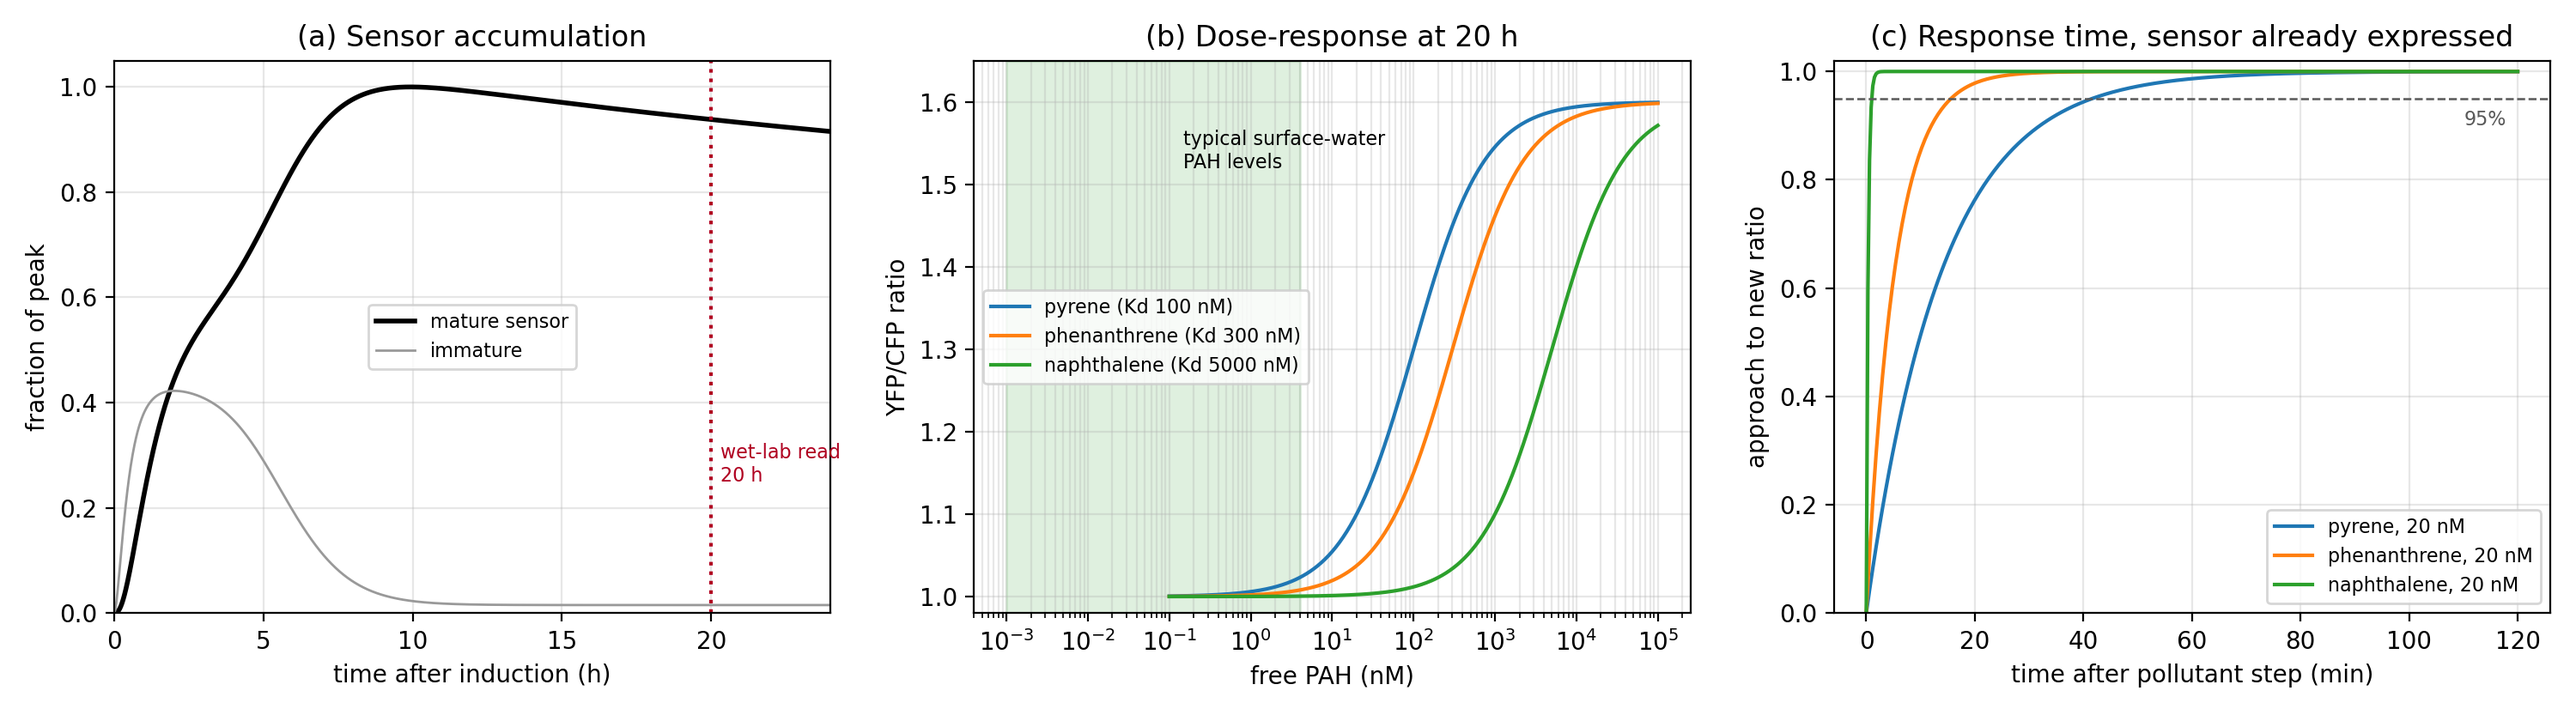
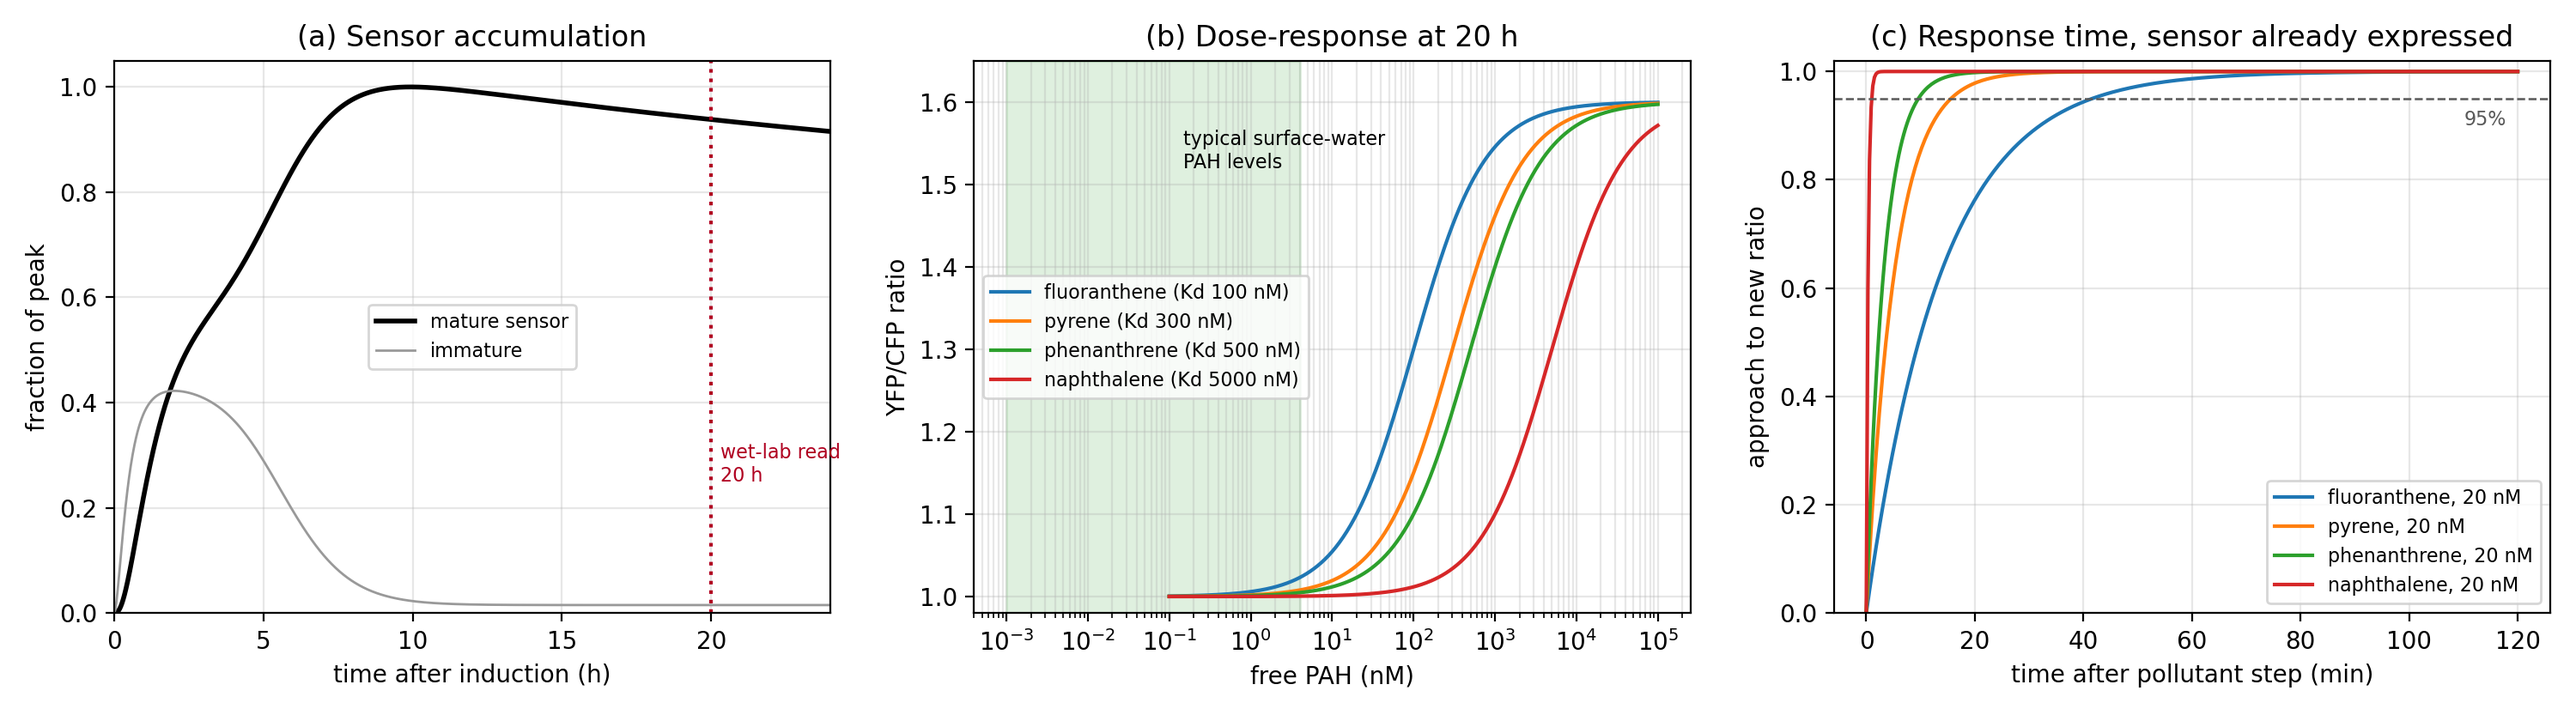
tool/autodock-vina: dock_ligand reads config.yaml, volume filter in blind-dock check, refresh analysis README, model docstring corrections

diff --git a/tools/autodock-vina/docking/dock_ligand.py b/tools/autodock-vina/docking/dock_ligand.py
@@ -1,15 +1,19 @@
-import argparse, os, shutil, subprocess, sys
+import argparse, os, shutil, subprocess, sys, yaml
 CANON = "../../../input/canonical/ligands/ligands.sdf"
 RECEPTOR = "../inputs/receptor.pdbqt"
-CENTER = (70.83, 71.96, 59.18)
-SIZE = (21.3, 19.6, 27.3)
+CONFIG = "../configurations/config.yaml"
 ap = argparse.ArgumentParser()
 ap.add_argument("ligand", help="exact name as it appears in ligands.sdf")
-ap.add_argument("--exhaustiveness", type=int, default=16)
-ap.add_argument("--num-modes", type=int, default=9)
-ap.add_argument("--seed", type=int, default=42)
+ap.add_argument("--config", default=CONFIG)
 a = ap.parse_args()
 os.chdir(os.path.dirname(os.path.abspath(__file__)))
+cfg = yaml.safe_load(open(a.config))
+box = cfg["box"]
+if box.get("mode") != "defined" or not box.get("center_xyz") or not box.get("size_xyz"):
+    sys.exit(f"{a.config}: box.mode must be 'defined' with center_xyz and size_xyz set")
+cx, cy, cz = box["center_xyz"]
+sx, sy, sz = box["size_xyz"]
+exh, nmodes, seed = cfg["exhaustiveness"], cfg["num_poses"], cfg["random_seed"]
 sdf = f"../inputs/{a.ligand}.sdf"
 for mol in open(CANON).read().split("$$$$\n"):
     if mol.strip() and mol.split("\n")[0].strip().lower() == a.ligand.lower():
@@ -22,15 +26,15 @@ out = f"../outputs/PahP__{a.ligand}__autodock-vina__v1.pdbqt"
 log = f"../outputs/PahP__{a.ligand}__autodock-vina__v1.log"
 os.makedirs("../outputs", exist_ok=True)
 cmd = ["vina", "--receptor", RECEPTOR, "--ligand", pdbqt,
-       "--center_x", str(CENTER[0]), "--center_y", str(CENTER[1]), "--center_z", str(CENTER[2]),
-       "--size_x", str(SIZE[0]), "--size_y", str(SIZE[1]), "--size_z", str(SIZE[2]),
-       "--exhaustiveness", str(a.exhaustiveness), "--num_modes", str(a.num_modes),
-       "--seed", str(a.seed), "--out", out]
+       "--center_x", str(cx), "--center_y", str(cy), "--center_z", str(cz),
+       "--size_x", str(sx), "--size_y", str(sy), "--size_z", str(sz),
+       "--exhaustiveness", str(exh), "--num_modes", str(nmodes),
+       "--seed", str(seed), "--out", out]
 with open(log, "w") as f:
     subprocess.run(cmd, stdout=f, stderr=subprocess.STDOUT, check=True)
 os.makedirs("../results/poses", exist_ok=True)
 shutil.copy(out, f"../results/poses/PahP__{a.ligand}__autodock-vina__v1.pdbqt")
-print(f"{a.ligand}: {out}")
+print(f"{a.ligand}: box {cx}/{cy}/{cz} size {sx}/{sy}/{sz} exh {exh} seed {seed}")
 for l in open(log):
     if l.split() and l.split()[0].isdigit():
         print(l.rstrip())

diff --git a/tools/autodock-vina/preprocessing/pocket_prediction/check_blind_docking.py b/tools/autodock-vina/preprocessing/pocket_prediction/check_blind_docking.py
@@ -1,4 +1,4 @@
-import argparse, glob, re, sys
+import argparse, glob, os, re, sys
 def coords(path):
     return [(float(l[30:38]), float(l[38:46]), float(l[46:54]))
             for l in open(path) if l.startswith(("ATOM", "HETATM"))]
@@ -13,13 +13,20 @@ def poses(path):
             out.append((aff, atoms)); atoms, aff = [], None
     if atoms: out.append((aff, atoms))
     return out
-def pockets(d):
-    pk = {}
+def volumes(d):
+    info = glob.glob(f"{d}/*_info.txt")
+    if not info: return {}
+    blocks = re.split(r"^Pocket (\d+) :\s*$", open(info[0]).read(), flags=re.M)
+    return {int(blocks[i]): float(re.search(r"Volume\s*:\s*([\-\d.]+)", blocks[i+1]).group(1))
+            for i in range(1, len(blocks), 2)}
+def pockets(d, min_vol):
+    vol, pk = volumes(d), {}
     for f in glob.glob(f"{d}/pockets/pocket*_atm.pdb"):
         n = int(re.search(r"pocket(\d+)_atm", f).group(1))
+        if vol and vol.get(n, 0) < min_vol: continue
         sph = coords(f.replace("_atm.pdb", "_vert.pqr"))
         pk[n] = (coords(f), tuple(sum(p[i] for p in sph)/len(sph) for i in range(3)))
-    return pk
+    return pk, sorted(n for n, v in vol.items() if v < min_vol)
 def contacts(atoms, lining, cut):
     c2 = cut*cut
     return sum(1 for ax, ay, az in atoms for bx, by, bz in lining
@@ -28,10 +35,14 @@ ap = argparse.ArgumentParser()
 ap.add_argument("poses")
 ap.add_argument("out_dir")
 ap.add_argument("--cutoff", type=float, default=4.5)
+ap.add_argument("--min-volume", type=float, default=250.0,
+                help="exclude pockets below this volume, matching rank_pockets.py")
 a = ap.parse_args()
-ps, pk = poses(a.poses), pockets(a.out_dir)
+ps = poses(a.poses)
+pk, small = pockets(a.out_dir, a.min_volume)
 if not ps: sys.exit(f"no poses in {a.poses}")
-print(f"{len(ps)} poses, {len(pk)} pockets, cutoff {a.cutoff} A")
+print(f"{len(ps)} poses, {len(pk)} pockets, cutoff {a.cutoff} A; "
+      f"excluded <{a.min_volume:g} A^3: {small or 'none'}")
 print(f"{'pose':>5}{'affinity':>10}{'pocket':>8}{'contacts':>10}{'cent.d':>8}{'next':>12}")
 hits = {}
 for i, (aff, atoms) in enumerate(ps, 1):

diff --git a/tools/autodock-vina/md/models/model3_competition.py b/tools/autodock-vina/md/models/model3_competition.py
@@ -4,8 +4,12 @@ iGEM Saarland 2026
 
 Our MM-GBSA Kd values (sub-nM to sub-pM) are too tight to use directly here:
 they saturate the receptor in every scenario and the model becomes degenerate.
-So the MM-GBSA and Vina results are used for the RANKING only, and absolute
-Kd values are sampled from a plausible range that respects that ranking.
+Absolute Kd are therefore sampled from a plausible range that respects a ranking.
+
+The ranking used is Vina's. Recomputed over windows where each ligand is actually
+in pocket 4, MM-GBSA cannot separate pyrene from phenanthrene (-16.64 +/- 5.46 vs
+-17.38 +/- 4.09, about 0.7 sigma), so the MM-GBSA order below is kept only as a
+sensitivity check, not as a competing ranking. See md/analysis/README.md.
 
 Output: model3_competition.png
 """
@@ -14,10 +18,9 @@ import matplotlib.pyplot as plt
 
 rng = np.random.default_rng(42)
 
-# ranking from this work: MM-GBSA put phenanthrene above pyrene,
-# Vina put pyrene above phenanthrene. Both orders are tested.
-# The MM-GBSA ordering compares two different sites (each ligand left
-# pocket 4 before its MM-GBSA window), so it is not like-for-like.
+# two orders are tested. the MM-GBSA one compares two different sites
+# (each ligand left pocket 4 before its MM-GBSA window), so it is not
+# like-for-like and is kept only as a sensitivity check.
 RANKING_MMGBSA = ["phenanthrene", "pyrene", "fluoranthene", "anthracene", "naphthalene"]
 # fluoranthene -8.095 and pyrene -8.021 differ by less than Vina resolves; order as scored
 RANKING_VINA = ["fluoranthene", "pyrene", "phenanthrene", "anthracene", "naphthalene"]

diff --git a/tools/autodock-vina/preprocessing/pocket_prediction/rank_pockets.py b/tools/autodock-vina/preprocessing/pocket_prediction/rank_pockets.py
@@ -40,7 +40,8 @@ ap = argparse.ArgumentParser()
 ap.add_argument("out_dir")
 ap.add_argument("--min-volume", type=float, default=250.0)
 ap.add_argument("--weights", nargs=3, type=float, default=[0.4, 0.4, 0.2])
-ap.add_argument("--padding", type=float, default=10.0)
+ap.add_argument("--padding", type=float, default=10.0,
+                help="added to the total span, i.e. half of it on each side")
 a = ap.parse_args()
 info = glob.glob(f"{a.out_dir}/*_info.txt")
 if not info: sys.exit(f"no *_info.txt in {a.out_dir}")
@@ -67,6 +68,7 @@ print(f"weight sweep ({total} combinations, step 0.1):")
 for n, c in sorted(wins.items(), key=lambda kv: -kv[1]):
     print(f"  pocket {n}: first in {c}/{total} ({100*c/total:.0f}%)")
 c, s, nsph, nlin = box(a.out_dir, best, a.padding)
-print(f"box from {nsph} alpha spheres, {nlin} lining atoms, {a.padding:g} A padding")
+print(f"box from {nsph} alpha spheres, {nlin} lining atoms, "
+      f"{a.padding:g} A padding on the span ({a.padding/2:g} A per side)")
 print(f"  center_xyz: [{c[0]:.2f}, {c[1]:.2f}, {c[2]:.2f}]")
 print(f"  size_xyz:   [{s[0]:.1f}, {s[1]:.1f}, {s[2]:.1f}]")

diff --git a/tools/autodock-vina/md/models/model1_binding.py b/tools/autodock-vina/md/models/model1_binding.py
@@ -16,7 +16,9 @@ RT = 0.001987 * 310.0
 
 # illustrative only - see header
 MMGBSA = {"pyrene": (-13.88, 4.21), "phenanthrene": (-18.12, 4.41)}
-VINA = {"pyrene": -8.02, "phenanthrene": -7.45, "naphthalene": -6.05}
+VINA = {"benzo_a_pyrene": -9.520, "fluoranthene": -8.095, "pyrene": -8.021,
+        "phenanthrene": -7.448, "anthracene": -7.363, "naphthalene": -6.053,
+        "glucose_NEGCTRL": -5.383}
 
 def kd_nM(dg):
     return np.exp(dg / RT) * 1e9

diff --git a/tools/autodock-vina/md/analysis/README.md b/tools/autodock-vina/md/analysis/README.md
@@ -1,6 +1,6 @@
 # MD stability analysis — PahP / pyrene, phenanthrene
 
-Tests whether the Vina docked pose in pocket 4 is retained during 100 ns of explicit-solvent MD.
+Tests whether the Vina docked pose in pocket 4 is retained during 100 ns of explicit-solvent MD, and recomputes MM-GBSA over windows where each ligand is in one defined site.
 
 ## Files
 
@@ -12,6 +12,9 @@ Tests whether the Vina docked pose in pocket 4 is retained during 100 ns of expl
 | `pocket4_dissociation.png` | the figure |
 | `pyrene_75ns.pdb`, `phenanthrene_75ns.pdb` | snapshots at 75 ns, protein + ligand |
 | `pyrene_75ns_out/`, `phenanthrene_75ns_out/` | fpocket run on those snapshots |
+| `windows/rerun_mmgbsa.sh` | the four defined-site MM-GBSA reruns |
+| `windows/*_gb_p4.{dat,in}` | MM-GBSA over pocket 4 while the ligand is still in it |
+| `windows/*_gb_site.{dat,in}` | MM-GBSA over each ligand's final site, 50–100 ns |
 
 Reproduce from `md.tpr` + `md.xtc`:
 
@@ -19,6 +22,7 @@ Reproduce from `md.tpr` + `md.xtc`:
 ./md_analysis.sh jobs/pyrene_run PYR
 ./md_analysis.sh jobs/phenanthrene_run PHN
 python plot_mindist.py pocket4_dissociation.png pyrene=pyr_p4.xvg phenanthrene=phn_p4.xvg
+./windows/rerun_mmgbsa.sh
 ```
 
 Pocket-4 lining used for the distance: residues 123, 250, 270, 271, 272, 274, 306 (129 atoms). Contact threshold 0.5 nm.
@@ -32,13 +36,26 @@ Pocket-4 lining used for the distance: residues 123, 250, 270, 271, 272, 274, 30
 | mean distance, final 50 ns | 1.49 nm | 2.00 nm |
 | final site | LEU10, ILE40, THR41, LEU44, SER45, PRO48, GLN51 | ILE136, LEU139, SER140, LEU142, PHE143, ASP194, ILE195, PRO223, ILE225, ILE237, ALA284, LEU289, HID290, PHE291, PRO292 |
 
-Both ligands start in pocket 4 — the 0 ns contact lists reproduce the fpocket lining almost residue for residue — and both leave. Pyrene loosens from ~13 ns with repeated returns before departing at 23.3 ns; phenanthrene leaves in one step at 8.0 ns. Neither returns. Both settle 1.5–2 nm away, in hydrophobic regions adjacent to pocket 4.
+Both ligands start in pocket 4 — the 0 ns contact lists reproduce the fpocket lining almost residue for residue — and both leave. Pyrene loosens from ~13 ns with repeated returns before departing at 23.3 ns and settling from ~37 ns; phenanthrene leaves in one step at 8.0 ns. Neither returns. Both settle 1.5–2 nm away, in hydrophobic regions adjacent to pocket 4.
 
-## Consequences for the MM-GBSA results
+## MM-GBSA over defined-site windows
 
-`mmpbsa_gb.in` used `startframe = 150, endframe = 500` on a 501-frame, 200 ps/frame trajectory, i.e. **29.8–99.8 ns**. Both ligands had already left pocket 4 by then, so the reported ΔG describes each ligand's post-migration site, and the two ligands are at different sites. The derived Kd is withdrawn, and the Vina/MM-GBSA ranking disagreement is explained: the two methods scored different sites.
+`md_fit.xtc` is 501 frames at 200 ps, so frame *n* is (*n*−1) × 200 ps.
 
-The MM-GBSA per-residue decomposition (`idecomp = 2`) returned zero contribution for every protein residue with the full interaction energy assigned to the ligand; its reported standard deviations are propagation artifacts. Discarded.
+| window | frames | pyrene | phenanthrene |
+|---|---|---|---|
+| pocket 4, ligand still bound | 11–66 / 6–36 | −16.64 ± 5.46 | −17.38 ± 4.09 |
+| final site | 251–500 (50–100 ns) | −14.95 ± 1.89 | −19.82 ± 3.03 |
+
+**At pocket 4 the two ligands are indistinguishable** — 0.74 kcal/mol apart against a combined SEM of ~1.03, about 0.7σ, and optimistic since consecutive frames are correlated. MM-GBSA cannot rank these ligands at a common site.
+
+**For pyrene, MM-GBSA contradicts the trajectory.** It scores pocket 4 (−16.64) above the site pyrene settled into and held for the remaining 60 ns (−14.95). It omits configurational entropy and treats desolvation crudely, so a buried aromatic pocket scores well on enthalpy while the real free-energy balance sends the ligand elsewhere. For phenanthrene the two agree (−17.38 vs −19.82), which makes pyrene the informative case.
+
+## Consequences for the original MM-GBSA results
+
+The original run used `startframe = 150` (pyrene) and `25` (phenanthrene) on the same trajectory, i.e. **29.8–99.8 ns** and **4.8–99.8 ns**. Both ligands had left pocket 4 by then, so those ΔG describe each ligand's post-migration site, and they describe *different* sites, so they were never comparable to each other. The derived Kd — pyrene ~0.16 nM, phenanthrene ~0.17 pM — are withdrawn.
+
+The per-residue decomposition (`idecomp = 2`) returned zero contribution for every protein residue with the full interaction energy assigned to the ligand; its standard deviations are propagation artifacts (√2 × per-term SD). Discarded.
 
 ## Site detection
 
@@ -47,10 +64,11 @@ Matching each final site against the fpocket run on the starting structure, and 
 - pyrene's site — best overlap 2/7 (pocket 15). Not a detected cavity.
 - phenanthrene's site — 7/15 with pocket 17, a further 5/15 with pocket 23, in both the starting and 75 ns structures.
 
-No cryptic pocket opened during the simulation. Phenanthrene's site spans two separately-detected pockets, so a per-pocket ranking cannot score it as a unit: the detection step divides the site before the ranking sees it, and neither half ranks well on its own (pocket 17 scored 0.317, 8th of 13).
+No cryptic pocket opened during the simulation. Phenanthrene's site spans two separately-detected pockets, so a per-pocket ranking cannot score it as a unit: detection divides the site before the ranking sees it, and neither half ranks well on its own (pocket 17 scored 0.317, 8th of 13).
 
 ## Caveats
 
 - Single 100 ns replicate per ligand, no repeats with different seeds. The dissociation is suggestive, not established.
 - Residence times are compared between two single runs; no error bars.
-- Pocket-4 identification from docking is unaffected by this — fpocket geometry, the weight sweep and the contact-based pose assignment are all static-structure results.
+- The pocket-4 windows are short (56 and 31 frames), hence the wide SDs.
+- Pocket-4 identification from docking is unaffected by any of this — fpocket geometry, the weight sweep and the contact-based pose assignment are all static-structure results.
